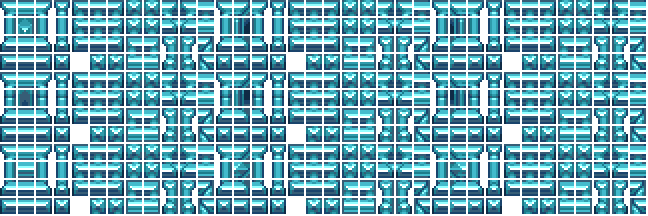
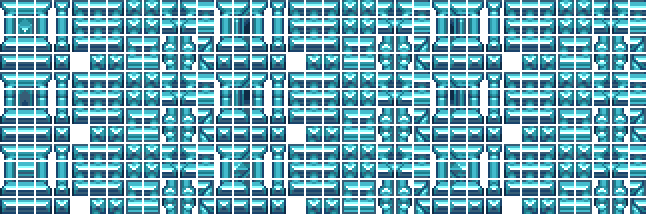
Fun tile frame fix

diff --git a/Utilities/TileFraming.cs b/Utilities/TileFraming.cs
@@ -1044,7 +1044,7 @@ namespace CalamityMod
             if (up && down && left && right && !downLeft && !downRight && upLeft && upRight)
             {
                 tile.TileFrameX = 198;
-                tile.TileFrameY = 18;
+                tile.TileFrameY = 0;
                 return;
             }
             if (up && down && left && right && downLeft && downRight && !upLeft && !upRight)
